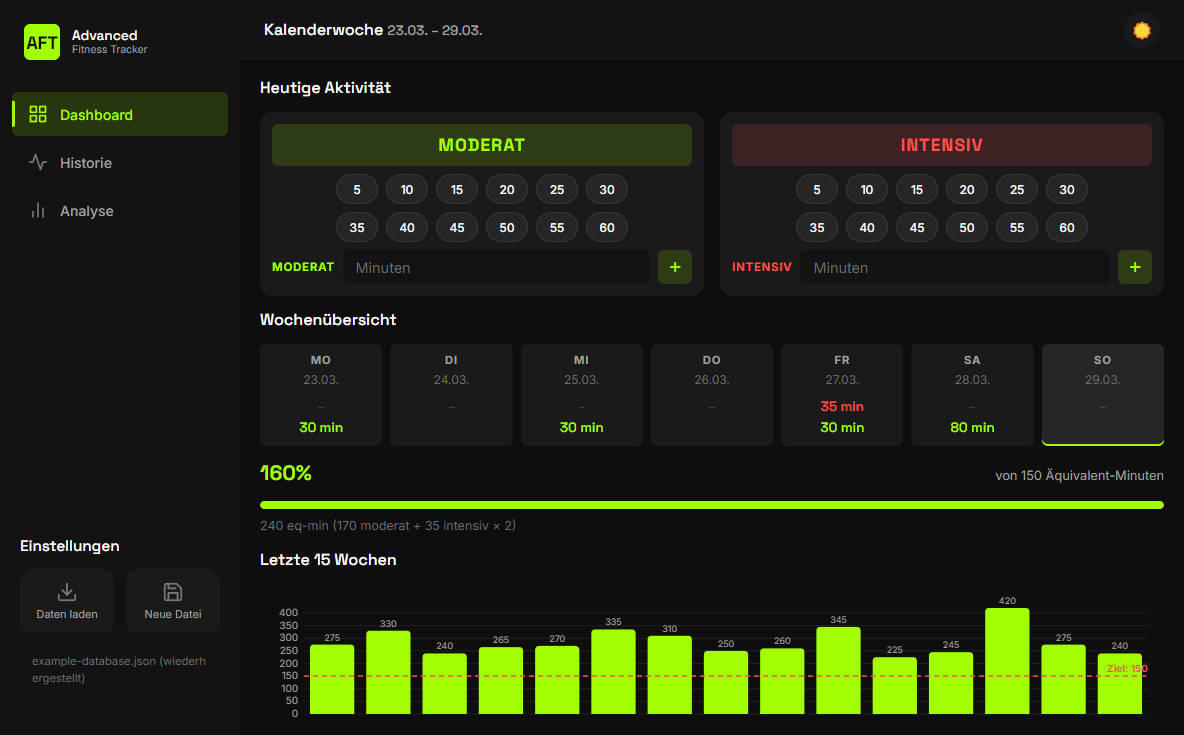
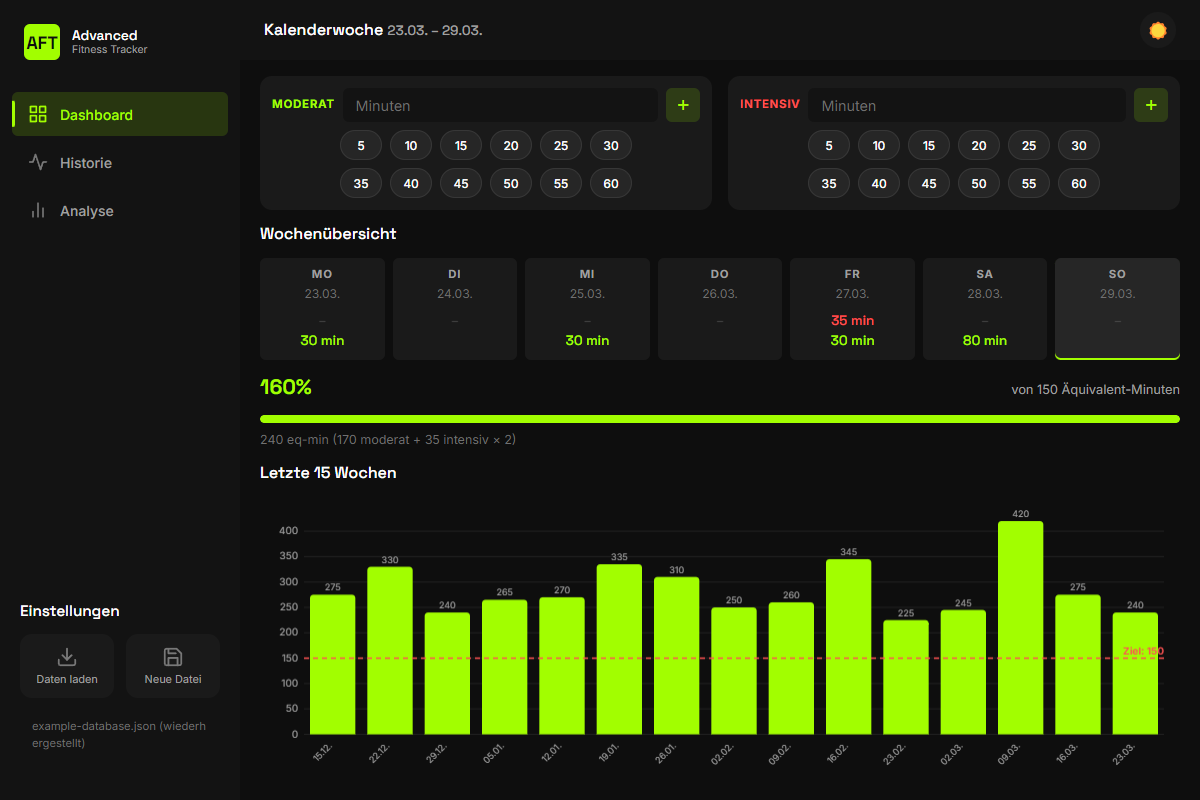
Enhance dashboard layout constraints and improve screenshot capture functionality; remove redundant input card title styles

diff --git a/renderer.js b/renderer.js
@@ -702,24 +702,8 @@ function setupQuickButtons() {
    { type: 'hard', label: 'Intensiv', cls: 'hard' }].forEach(({ type, label, cls }) => {
     const card = document.createElement('div');
     card.className = 'input-card';
-    card.innerHTML = `<div class="input-card-title ${cls}">${label}</div>`;
 
-    // Two rows of quick buttons
-    [row1, row2].forEach(mins => {
-      const btnRow = document.createElement('div');
-      btnRow.className = 'quick-buttons-row';
-      mins.forEach(m => {
-        const btn = document.createElement('button');
-        btn.className = 'quick-btn';
-        btn.textContent = m;
-        btn.title = `${m} Minuten ${label}`;
-        btn.addEventListener('click', () => addEntry(type, m));
-        btnRow.appendChild(btn);
-      });
-      card.appendChild(btnRow);
-    });
-
-    // Custom input row with label
+    // Custom input row with label at the top
     const customRow = document.createElement('div');
     customRow.className = 'input-card-custom';
     const lbl = document.createElement('span');
@@ -744,6 +728,21 @@ function setupQuickButtons() {
     });
     customRow.appendChild(addBtn);
     card.appendChild(customRow);
+
+    // Two rows of quick buttons
+    [row1, row2].forEach(mins => {
+      const btnRow = document.createElement('div');
+      btnRow.className = 'quick-buttons-row';
+      mins.forEach(m => {
+        const btn = document.createElement('button');
+        btn.className = 'quick-btn';
+        btn.textContent = m;
+        btn.title = `${m} Minuten ${label}`;
+        btn.addEventListener('click', () => addEntry(type, m));
+        btnRow.appendChild(btn);
+      });
+      card.appendChild(btnRow);
+    });
 
     row.appendChild(card);
   });

diff --git a/.github/skills/screenshot-test/scripts/screenshot-helper.js b/.github/skills/screenshot-test/scripts/screenshot-helper.js
@@ -62,6 +62,7 @@ async function captureScreenshots() {
   mainWindow = new BrowserWindow({
     width: 1200,
     height: 800,
+    useContentSize: true,
     webPreferences: {
       preload: path.join(PROJECT_ROOT, 'preload.js'),
       contextIsolation: true,
@@ -91,7 +92,8 @@ async function captureScreenshots() {
       if (typeof refresh === 'function') refresh();
     `);
     await new Promise(r => setTimeout(r, 800));
-    const darkImg = await mainWindow.capturePage();
+    const [cw, ch] = mainWindow.getContentSize();
+    const darkImg = await mainWindow.capturePage({ x: 0, y: 0, width: cw, height: ch });
     const darkBuf = darkImg.toPNG();
     fs.writeFileSync(path.join(PROJECT_ROOT, `screenshot-${view}-dark.png`), darkBuf);
     console.log(`${view} dark saved (${darkBuf.length} bytes)`);
@@ -104,7 +106,8 @@ async function captureScreenshots() {
       if (typeof refresh === 'function') refresh();
     `);
     await new Promise(r => setTimeout(r, 800));
-    const lightImg = await mainWindow.capturePage();
+    const [lw, lh] = mainWindow.getContentSize();
+    const lightImg = await mainWindow.capturePage({ x: 0, y: 0, width: lw, height: lh });
     const lightBuf = lightImg.toPNG();
     fs.writeFileSync(path.join(PROJECT_ROOT, `screenshot-${view}-light.png`), lightBuf);
     console.log(`${view} light saved (${lightBuf.length} bytes)`);

diff --git a/styles.css b/styles.css
@@ -484,24 +484,6 @@ body {
   flex-direction: column;
   gap: var(--sp-2);
 }
-.input-card-title {
-  font-family: var(--font-headline);
-  font-size: 1.1rem;
-  font-weight: 700;
-  text-align: center;
-  text-transform: uppercase;
-  letter-spacing: 0.06em;
-  padding: var(--sp-2) 0;
-  border-radius: var(--radius-md);
-}
-.input-card-title.mod {
-  color: var(--tag-mod-text);
-  background: var(--tag-mod-bg);
-}
-.input-card-title.hard {
-  color: var(--tag-hard-text);
-  background: var(--tag-hard-bg);
-}
 .input-card-custom {
   display: flex;
   align-items: center;

diff --git a/index.html b/index.html
@@ -61,7 +61,6 @@
       <!-- Dashboard View -->
       <div id="view-dashboard" class="view active">
         <div class="input-section">
-          <div class="section-title">Heutige Aktivität</div>
           <div id="quickButtons"></div>
         </div>
 

diff --git a/.github/copilot-instructions.md b/.github/copilot-instructions.md
@@ -16,5 +16,11 @@ Do not alter the entry shape without migrating existing user files:
 - Moderate equivalent = `moderate + hard × 2`
 - Goal reached at **≥ 150**; progress bar turns green.
 
+## Dashboard Layout Constraint
+The Dashboard view **must fit without scrolling** at a minimum content height of **800px** (Electron window 1200×800). This corresponds to a Surface Pro 7 in landscape.
+- All dashboard sections (quick-add cards, week grid, progress, chart) use flexbox. The chart fills remaining vertical space.
+- Do **not** add new sections or increase spacing/padding without verifying the dashboard still fits.
+- Use the screenshot-test skill to verify: `npx electron .github/skills/screenshot-test/scripts/screenshot-helper.js`
+
 ## Documentation Rule
 With every functional change, update `README.md` and this instruction file if necessary.
